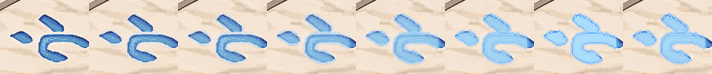
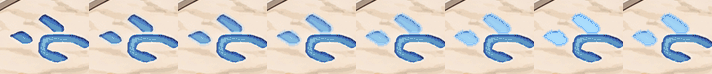
Syntax Citadel keep gate wakes as he arrives: blue runes round the arch and down both jambs glow, the gold emblem flares, and both statues' scrolls unroll (tools/make_scroll.py). Floor runes recut without neighbour bleed. Stamp b20261110e.
Claude-Session: https://claude.ai/code/session_01Vj1nxmQmmwQb3qWB1ZfZZg

diff --git a/js/realm.js b/js/realm.js
@@ -165,7 +165,18 @@
         { kind: 'frames', mode: 'rune', sheet: 'assets/fx/props/syntaxcitadel/g19.png', frames: 8, reach: 0.05, x: 0.67898, y: 0.69259, w: 0.04086, h: 0.07315, base: 0.693 },
         { kind: 'frames', mode: 'rune', sheet: 'assets/fx/props/syntaxcitadel/g20.png', frames: 8, reach: 0.05, x: 0.82436, y: 0.45648, w: 0.06051, h: 0.10093, base: 0.456 },
         { kind: 'sway', sprite: 'assets/fx/props/syntaxcitadel/quill1.png', patch: 'assets/fx/props/syntaxcitadel/quill1-patch.png', x: 0.59136, y: 0.72222, w: 0.01965, h: 0.09722, pivot: [0.364, 0.705], amp: 6, base: 0.819 },
-        { kind: 'sway', sprite: 'assets/fx/props/syntaxcitadel/quill2.png', patch: 'assets/fx/props/syntaxcitadel/quill2-patch.png', x: 0.63851, y: 0.81019, w: 0.01965, h: 0.09259, pivot: [0.33, 0.68], amp: 6, base: 0.903 }
+        { kind: 'sway', sprite: 'assets/fx/props/syntaxcitadel/quill2.png', patch: 'assets/fx/props/syntaxcitadel/quill2-patch.png', x: 0.63851, y: 0.81019, w: 0.01965, h: 0.09259, pivot: [0.33, 0.68], amp: 6, base: 0.903 },
+        /* the keep gate wakes as he comes up to it (reach 0.42 of the stage): the
+           blue runes round the arch and down both jambs glow, the gold emblem
+           flares, and the two statues' scrolls unroll a hand's width
+           (tools/make_scroll.py), rolling back up after he leaves */
+        { kind: 'frames', mode: 'rune', sheet: 'assets/fx/props/syntaxcitadel/archL.png', frames: 8, reach: 0.42, x: 0.80472, y: 0.00463, w: 0.08605, h: 0.24444, base: 0.243 },
+        { kind: 'frames', mode: 'rune', sheet: 'assets/fx/props/syntaxcitadel/archR.png', frames: 8, reach: 0.42, x: 0.88527, y: 0.00463, w: 0.06051, h: 0.24444, base: 0.243 },
+        { kind: 'frames', mode: 'rune', sheet: 'assets/fx/props/syntaxcitadel/emblem.png', frames: 8, reach: 0.42, x: 0.86012, y: 0.0713, w: 0.04322, h: 0.09815, base: 0.163 },
+        { kind: 'frames', mode: 'rune', sheet: 'assets/fx/props/syntaxcitadel/colL.png', frames: 8, reach: 0.32, x: 0.82554, y: 0.20648, w: 0.022, h: 0.21852, base: 0.419 },
+        { kind: 'frames', mode: 'rune', sheet: 'assets/fx/props/syntaxcitadel/colR.png', frames: 8, reach: 0.32, x: 0.91081, y: 0.25741, w: 0.01925, h: 0.16759, base: 0.419 },
+        { kind: 'frames', mode: 'rune', sheet: 'assets/fx/props/syntaxcitadel/scroll1.png', frames: 8, reach: 0.3, x: 0.78743, y: 0.26667, w: 0.02279, h: 0.08889, base: 0.356 },
+        { kind: 'frames', mode: 'rune', sheet: 'assets/fx/props/syntaxcitadel/scroll2.png', frames: 8, reach: 0.22, x: 0.90766, y: 0.38704, w: 0.02122, h: 0.1, base: 0.487 }
       ] },
       start: [0.138,0.467],
       bossArea: [[0.851,0.438],[0.851,0.241],[0.882,0.172],[0.91,0.273],[0.911,0.511]] },

diff --git a/realm.html b/realm.html
@@ -7,10 +7,10 @@
 <meta name="theme-color" content="#16112b" />
 <title>Realm, ScoreQuest</title>
 <meta name="description" content="Walk the realm: a side-view stroll through one biome of the quest." />
-<link rel="stylesheet" href="css/style.css?v=b20261110d" />
+<link rel="stylesheet" href="css/style.css?v=b20261110e" />
 <link href="https://fonts.googleapis.com/css2?family=Pixelify+Sans:wght@400;600;700&display=swap" rel="stylesheet" />
-<link rel="stylesheet" href="assets/katex/katex.min.css?v=b20261110d" />
-<link rel="stylesheet" href="css/clash.css?v=b20261110d" />
+<link rel="stylesheet" href="assets/katex/katex.min.css?v=b20261110e" />
+<link rel="stylesheet" href="css/clash.css?v=b20261110e" />
 <link rel="icon" type="image/png" href="assets/logo.png" />
 </head>
 <body class="page-realm">
@@ -62,21 +62,21 @@
 </div>
 
 <script src="https://cdn.jsdelivr.net/npm/@supabase/supabase-js@2"></script>
-<script src="js/config.js?v=b20261110d"></script>
-<script src="js/auth.js?v=b20261110d"></script>
-<script src="js/paws.js?v=b20261110d"></script>
-<script src="js/sfx.js?v=b20261110d"></script>
-<script src="js/companion.js?v=b20261110d"></script>
-<script src="assets/katex/katex.min.js?v=b20261110d"></script>
-<script src="assets/katex/auto-render.min.js?v=b20261110d"></script>
-<script src="data/questions.js?v=b20261110d"></script>
-<script src="data/waypoints.js?v=b20261110d"></script>
-<script src="data/lessons.js?v=b20261110d"></script>
-<script src="js/figures.js?v=b20261110d"></script>
-<script src="js/questions.js?v=b20261110d"></script>
-<script src="js/qcard.js?v=b20261110d"></script>
-<script src="js/clash-arena.js?v=b20261110d"></script>
-<script src="js/clash-overlay.js?v=b20261110d"></script>
-<script src="js/realm.js?v=b20261110d"></script>
+<script src="js/config.js?v=b20261110e"></script>
+<script src="js/auth.js?v=b20261110e"></script>
+<script src="js/paws.js?v=b20261110e"></script>
+<script src="js/sfx.js?v=b20261110e"></script>
+<script src="js/companion.js?v=b20261110e"></script>
+<script src="assets/katex/katex.min.js?v=b20261110e"></script>
+<script src="assets/katex/auto-render.min.js?v=b20261110e"></script>
+<script src="data/questions.js?v=b20261110e"></script>
+<script src="data/waypoints.js?v=b20261110e"></script>
+<script src="data/lessons.js?v=b20261110e"></script>
+<script src="js/figures.js?v=b20261110e"></script>
+<script src="js/questions.js?v=b20261110e"></script>
+<script src="js/qcard.js?v=b20261110e"></script>
+<script src="js/clash-arena.js?v=b20261110e"></script>
+<script src="js/clash-overlay.js?v=b20261110e"></script>
+<script src="js/realm.js?v=b20261110e"></script>
 </body>
 </html>

diff --git a/clash.html b/clash.html
@@ -9,8 +9,8 @@
 <link rel="preconnect" href="https://fonts.googleapis.com" />
 <link rel="preconnect" href="https://fonts.gstatic.com" crossorigin />
 <link href="https://fonts.googleapis.com/css2?family=Pixelify+Sans:wght@400;600;700&display=swap" rel="stylesheet" />
-<link rel="stylesheet" href="assets/katex/katex.min.css?v=b20261110d" />
-<link rel="stylesheet" href="css/clash.css?v=b20261110d" />
+<link rel="stylesheet" href="assets/katex/katex.min.css?v=b20261110e" />
+<link rel="stylesheet" href="css/clash.css?v=b20261110e" />
 <style>
 :root {
   --bg: #efe9da; --card: #fffdf7; --ink: #2b2118; --muted: #6f6252; --line: #d9cfba;
@@ -131,16 +131,16 @@ body.focus .trail .here { display: none; }
 </main>
 
 <script defer src="https://cdn.jsdelivr.net/npm/@supabase/supabase-js@2"></script>
-<script defer src="assets/katex/katex.min.js?v=b20261110d"></script>
-<script defer src="assets/katex/auto-render.min.js?v=b20261110d"></script>
-<script defer src="js/config.js?v=b20261110d"></script>
-<script defer src="js/auth.js?v=b20261110d"></script>
-<script defer src="data/questions.js?v=b20261110d"></script>
-<script defer src="js/figures.js?v=b20261110d"></script>
-<script defer src="js/questions.js?v=b20261110d"></script>
-<script defer src="js/qcard.js?v=b20261110d"></script>
-<script defer src="js/clash-arena.js?v=b20261110d"></script>
-<script defer src="js/clash-ambient.js?v=b20261110d"></script>
-<script defer src="js/clash.js?v=b20261110d"></script>
+<script defer src="assets/katex/katex.min.js?v=b20261110e"></script>
+<script defer src="assets/katex/auto-render.min.js?v=b20261110e"></script>
+<script defer src="js/config.js?v=b20261110e"></script>
+<script defer src="js/auth.js?v=b20261110e"></script>
+<script defer src="data/questions.js?v=b20261110e"></script>
+<script defer src="js/figures.js?v=b20261110e"></script>
+<script defer src="js/questions.js?v=b20261110e"></script>
+<script defer src="js/qcard.js?v=b20261110e"></script>
+<script defer src="js/clash-arena.js?v=b20261110e"></script>
+<script defer src="js/clash-ambient.js?v=b20261110e"></script>
+<script defer src="js/clash.js?v=b20261110e"></script>
 </body>
 </html>

diff --git a/index.html b/index.html
@@ -13,7 +13,7 @@
    before first paint so navigation never flashes the marketing tabs */
 try { if (window.localStorage.getItem('sb-moasnmwcikwybriwaoip-auth-token')) document.documentElement.classList.add('is-authed'); } catch (e) {}
 </script>
-<link rel="stylesheet" href="css/style.css?v=b20261110d" />
+<link rel="stylesheet" href="css/style.css?v=b20261110e" />
 
 <link rel="icon" type="image/png" href="assets/logo.png" />
 </head>
@@ -479,16 +479,16 @@ try { if (window.localStorage.getItem('sb-moasnmwcikwybriwaoip-auth-token')) doc
 </footer>
 
 <script defer src="https://cdn.jsdelivr.net/npm/@supabase/supabase-js@2"></script>
-<script defer src="js/config.js?v=b20261110d"></script>
-<script defer src="js/auth.js?v=b20261110d"></script>
-<script defer src="js/usernav.js?v=b20261110d"></script>
-<script defer src="js/pixelworld.js?v=b20261110d"></script>
-<script defer src="js/game.js?v=b20261110d"></script>
-<script defer src="js/sfx.js?v=b20261110d"></script>
-<script defer src="data/questions.js?v=b20261110d"></script>
-<script defer src="js/questions.js?v=b20261110d"></script>
-<script defer src="js/map.js?v=b20261110d"></script>
-<script defer src="js/parents.js?v=b20261110d"></script>
-<script defer src="js/main.js?v=b20261110d"></script>
+<script defer src="js/config.js?v=b20261110e"></script>
+<script defer src="js/auth.js?v=b20261110e"></script>
+<script defer src="js/usernav.js?v=b20261110e"></script>
+<script defer src="js/pixelworld.js?v=b20261110e"></script>
+<script defer src="js/game.js?v=b20261110e"></script>
+<script defer src="js/sfx.js?v=b20261110e"></script>
+<script defer src="data/questions.js?v=b20261110e"></script>
+<script defer src="js/questions.js?v=b20261110e"></script>
+<script defer src="js/map.js?v=b20261110e"></script>
+<script defer src="js/parents.js?v=b20261110e"></script>
+<script defer src="js/main.js?v=b20261110e"></script>
 </body>
 </html>

diff --git a/boss.html b/boss.html
@@ -7,8 +7,8 @@
 <meta name="theme-color" content="#16112b" />
 <title>Boss fight, ScoreQuest</title>
 <meta name="description" content="The guardian at the end of the realm. Answer true, strike true." />
-<link rel="stylesheet" href="assets/katex/katex.min.css?v=b20261110d" />
-<link rel="stylesheet" href="css/style.css?v=b20261110d" />
+<link rel="stylesheet" href="assets/katex/katex.min.css?v=b20261110e" />
+<link rel="stylesheet" href="css/style.css?v=b20261110e" />
 <link rel="icon" type="image/png" href="assets/logo.png" />
 </head>
 <body class="page-boss">
@@ -118,16 +118,16 @@
 </div>
 
 <script src="https://cdn.jsdelivr.net/npm/@supabase/supabase-js@2"></script>
-<script src="js/config.js?v=b20261110d"></script>
-<script src="js/auth.js?v=b20261110d"></script>
-<script src="js/sfx.js?v=b20261110d"></script>
-<script src="js/companion.js?v=b20261110d"></script>
-<script src="assets/katex/katex.min.js?v=b20261110d"></script>
-<script src="assets/katex/auto-render.min.js?v=b20261110d"></script>
-<script src="data/questions.js?v=b20261110d"></script>
-<script src="js/figures.js?v=b20261110d"></script>
-<script src="js/questions.js?v=b20261110d"></script>
-<script src="js/qcard.js?v=b20261110d"></script>
-<script src="js/boss.js?v=b20261110d"></script>
+<script src="js/config.js?v=b20261110e"></script>
+<script src="js/auth.js?v=b20261110e"></script>
+<script src="js/sfx.js?v=b20261110e"></script>
+<script src="js/companion.js?v=b20261110e"></script>
+<script src="assets/katex/katex.min.js?v=b20261110e"></script>
+<script src="assets/katex/auto-render.min.js?v=b20261110e"></script>
+<script src="data/questions.js?v=b20261110e"></script>
+<script src="js/figures.js?v=b20261110e"></script>
+<script src="js/questions.js?v=b20261110e"></script>
+<script src="js/qcard.js?v=b20261110e"></script>
+<script src="js/boss.js?v=b20261110e"></script>
 </body>
 </html>

diff --git a/practice.html b/practice.html
@@ -10,8 +10,8 @@
 <script>
 try { if (window.localStorage.getItem('sb-moasnmwcikwybriwaoip-auth-token')) document.documentElement.classList.add('is-authed'); } catch (e) {}
 </script>
-<link rel="stylesheet" href="css/style.css?v=b20261110d" />
-<link rel="stylesheet" href="assets/katex/katex.min.css?v=b20261110d" />
+<link rel="stylesheet" href="css/style.css?v=b20261110e" />
+<link rel="stylesheet" href="assets/katex/katex.min.css?v=b20261110e" />
 <link rel="icon" type="image/png" href="assets/logo.png" />
 </head>
 <body class="page-map page-practice">
@@ -106,14 +106,14 @@ try { if (window.localStorage.getItem('sb-moasnmwcikwybriwaoip-auth-token')) doc
 </main>
 
 <script defer src="https://cdn.jsdelivr.net/npm/@supabase/supabase-js@2"></script>
-<script defer src="assets/katex/katex.min.js?v=b20261110d"></script>
-<script defer src="assets/katex/auto-render.min.js?v=b20261110d"></script>
-<script defer src="js/config.js?v=b20261110d"></script>
-<script defer src="js/auth.js?v=b20261110d"></script>
-<script defer src="js/usernav.js?v=b20261110d"></script>
-<script defer src="data/questions.js?v=b20261110d"></script>
-<script defer src="js/figures.js?v=b20261110d"></script>
-<script defer src="js/questions.js?v=b20261110d"></script>
-<script defer src="js/practice.js?v=b20261110d"></script>
+<script defer src="assets/katex/katex.min.js?v=b20261110e"></script>
+<script defer src="assets/katex/auto-render.min.js?v=b20261110e"></script>
+<script defer src="js/config.js?v=b20261110e"></script>
+<script defer src="js/auth.js?v=b20261110e"></script>
+<script defer src="js/usernav.js?v=b20261110e"></script>
+<script defer src="data/questions.js?v=b20261110e"></script>
+<script defer src="js/figures.js?v=b20261110e"></script>
+<script defer src="js/questions.js?v=b20261110e"></script>
+<script defer src="js/practice.js?v=b20261110e"></script>
 </body>
 </html>

diff --git a/map.html b/map.html
@@ -12,7 +12,7 @@
    before first paint so navigation never flashes the marketing tabs */
 try { if (window.localStorage.getItem('sb-moasnmwcikwybriwaoip-auth-token')) document.documentElement.classList.add('is-authed'); } catch (e) {}
 </script>
-<link rel="stylesheet" href="css/style.css?v=b20261110d" />
+<link rel="stylesheet" href="css/style.css?v=b20261110e" />
 <link rel="icon" type="image/png" href="assets/logo.png" />
 </head>
 <body class="page-map">
@@ -49,15 +49,15 @@ try { if (window.localStorage.getItem('sb-moasnmwcikwybriwaoip-auth-token')) doc
 </main>
 
 <script src="https://cdn.jsdelivr.net/npm/@supabase/supabase-js@2"></script>
-<script src="js/config.js?v=b20261110d"></script>
-<script src="js/auth.js?v=b20261110d"></script>
-<script src="js/usernav.js?v=b20261110d"></script>
-<script src="js/pixelworld.js?v=b20261110d"></script>
-<script src="js/game.js?v=b20261110d"></script>
-<script src="js/map.js?v=b20261110d"></script>
-<script src="js/sfx.js?v=b20261110d"></script>
-<script src="js/intro.js?v=b20261110d"></script>
-<script src="js/companion.js?v=b20261110d"></script>
-<script src="js/main.js?v=b20261110d"></script>
+<script src="js/config.js?v=b20261110e"></script>
+<script src="js/auth.js?v=b20261110e"></script>
+<script src="js/usernav.js?v=b20261110e"></script>
+<script src="js/pixelworld.js?v=b20261110e"></script>
+<script src="js/game.js?v=b20261110e"></script>
+<script src="js/map.js?v=b20261110e"></script>
+<script src="js/sfx.js?v=b20261110e"></script>
+<script src="js/intro.js?v=b20261110e"></script>
+<script src="js/companion.js?v=b20261110e"></script>
+<script src="js/main.js?v=b20261110e"></script>
 </body>
 </html>

diff --git a/checkout.html b/checkout.html
@@ -12,7 +12,7 @@
    before first paint so navigation never flashes the marketing tabs */
 try { if (window.localStorage.getItem('sb-moasnmwcikwybriwaoip-auth-token')) document.documentElement.classList.add('is-authed'); } catch (e) {}
 </script>
-<link rel="stylesheet" href="css/style.css?v=b20261110d" />
+<link rel="stylesheet" href="css/style.css?v=b20261110e" />
 <link rel="icon" type="image/png" href="assets/logo.png" />
 </head>
 <body class="page-checkout">
@@ -114,11 +114,11 @@ try { if (window.localStorage.getItem('sb-moasnmwcikwybriwaoip-auth-token')) doc
 </footer>
 
 <script src="https://cdn.jsdelivr.net/npm/@supabase/supabase-js@2"></script>
-<script src="js/config.js?v=b20261110d"></script>
-<script src="js/auth.js?v=b20261110d"></script>
-<script src="js/usernav.js?v=b20261110d"></script>
-<script src="js/sfx.js?v=b20261110d"></script>
-<script src="js/checkout.js?v=b20261110d"></script>
-<script src="js/main.js?v=b20261110d"></script>
+<script src="js/config.js?v=b20261110e"></script>
+<script src="js/auth.js?v=b20261110e"></script>
+<script src="js/usernav.js?v=b20261110e"></script>
+<script src="js/sfx.js?v=b20261110e"></script>
+<script src="js/checkout.js?v=b20261110e"></script>
+<script src="js/main.js?v=b20261110e"></script>
 </body>
 </html>

diff --git a/bookmarks.html b/bookmarks.html
@@ -10,7 +10,7 @@
 <script>
 try { if (window.localStorage.getItem('sb-moasnmwcikwybriwaoip-auth-token')) document.documentElement.classList.add('is-authed'); } catch (e) {}
 </script>
-<link rel="stylesheet" href="css/style.css?v=b20261110d" />
+<link rel="stylesheet" href="css/style.css?v=b20261110e" />
 <link rel="icon" type="image/png" href="assets/logo.png" />
 </head>
 <body class="page-map" data-account-page="bookmarks">
@@ -41,10 +41,10 @@ try { if (window.localStorage.getItem('sb-moasnmwcikwybriwaoip-auth-token')) doc
 </main>
 
 <script defer src="https://cdn.jsdelivr.net/npm/@supabase/supabase-js@2"></script>
-<script defer src="js/config.js?v=b20261110d"></script>
-<script defer src="js/auth.js?v=b20261110d"></script>
-<script defer src="js/usernav.js?v=b20261110d"></script>
-<script defer src="js/sfx.js?v=b20261110d"></script>
-<script defer src="js/account-pages.js?v=b20261110d"></script>
+<script defer src="js/config.js?v=b20261110e"></script>
+<script defer src="js/auth.js?v=b20261110e"></script>
+<script defer src="js/usernav.js?v=b20261110e"></script>
+<script defer src="js/sfx.js?v=b20261110e"></script>
+<script defer src="js/account-pages.js?v=b20261110e"></script>
 </body>
 </html>

diff --git a/settings.html b/settings.html
@@ -10,7 +10,7 @@
 <script>
 try { if (window.localStorage.getItem('sb-moasnmwcikwybriwaoip-auth-token')) document.documentElement.classList.add('is-authed'); } catch (e) {}
 </script>
-<link rel="stylesheet" href="css/style.css?v=b20261110d" />
+<link rel="stylesheet" href="css/style.css?v=b20261110e" />
 <link rel="icon" type="image/png" href="assets/logo.png" />
 </head>
 <body class="page-map" data-account-page="settings">
@@ -66,10 +66,10 @@ try { if (window.localStorage.getItem('sb-moasnmwcikwybriwaoip-auth-token')) doc
 </main>
 
 <script defer src="https://cdn.jsdelivr.net/npm/@supabase/supabase-js@2"></script>
-<script defer src="js/config.js?v=b20261110d"></script>
-<script defer src="js/auth.js?v=b20261110d"></script>
-<script defer src="js/usernav.js?v=b20261110d"></script>
-<script defer src="js/sfx.js?v=b20261110d"></script>
-<script defer src="js/account-pages.js?v=b20261110d"></script>
+<script defer src="js/config.js?v=b20261110e"></script>
+<script defer src="js/auth.js?v=b20261110e"></script>
+<script defer src="js/usernav.js?v=b20261110e"></script>
+<script defer src="js/sfx.js?v=b20261110e"></script>
+<script defer src="js/account-pages.js?v=b20261110e"></script>
 </body>
 </html>

diff --git a/profile.html b/profile.html
@@ -10,7 +10,7 @@
 <script>
 try { if (window.localStorage.getItem('sb-moasnmwcikwybriwaoip-auth-token')) document.documentElement.classList.add('is-authed'); } catch (e) {}
 </script>
-<link rel="stylesheet" href="css/style.css?v=b20261110d" />
+<link rel="stylesheet" href="css/style.css?v=b20261110e" />
 <link rel="icon" type="image/png" href="assets/logo.png" />
 </head>
 <body class="page-map" data-account-page="profile">
@@ -87,10 +87,10 @@ try { if (window.localStorage.getItem('sb-moasnmwcikwybriwaoip-auth-token')) doc
 </main>
 
 <script defer src="https://cdn.jsdelivr.net/npm/@supabase/supabase-js@2"></script>
-<script defer src="js/config.js?v=b20261110d"></script>
-<script defer src="js/auth.js?v=b20261110d"></script>
-<script defer src="js/usernav.js?v=b20261110d"></script>
-<script defer src="js/sfx.js?v=b20261110d"></script>
-<script defer src="js/account-pages.js?v=b20261110d"></script>
+<script defer src="js/config.js?v=b20261110e"></script>
+<script defer src="js/auth.js?v=b20261110e"></script>
+<script defer src="js/usernav.js?v=b20261110e"></script>
+<script defer src="js/sfx.js?v=b20261110e"></script>
+<script defer src="js/account-pages.js?v=b20261110e"></script>
 </body>
 </html>

diff --git a/parents.html b/parents.html
@@ -12,7 +12,7 @@
    before first paint so navigation never flashes the marketing tabs */
 try { if (window.localStorage.getItem('sb-moasnmwcikwybriwaoip-auth-token')) document.documentElement.classList.add('is-authed'); } catch (e) {}
 </script>
-<link rel="stylesheet" href="css/style.css?v=b20261110d" />
+<link rel="stylesheet" href="css/style.css?v=b20261110e" />
 <link rel="icon" type="image/png" href="assets/logo.png" />
 </head>
 <body class="page-parents">
@@ -162,10 +162,10 @@ try { if (window.localStorage.getItem('sb-moasnmwcikwybriwaoip-auth-token')) doc
 </footer>
 
 <script src="https://cdn.jsdelivr.net/npm/@supabase/supabase-js@2"></script>
-<script src="js/config.js?v=b20261110d"></script>
-<script src="js/auth.js?v=b20261110d"></script>
-<script src="js/usernav.js?v=b20261110d"></script>
-<script src="js/sfx.js?v=b20261110d"></script>
-<script src="js/main.js?v=b20261110d"></script>
+<script src="js/config.js?v=b20261110e"></script>
+<script src="js/auth.js?v=b20261110e"></script>
+<script src="js/usernav.js?v=b20261110e"></script>
+<script src="js/sfx.js?v=b20261110e"></script>
+<script src="js/main.js?v=b20261110e"></script>
 </body>
 </html>
